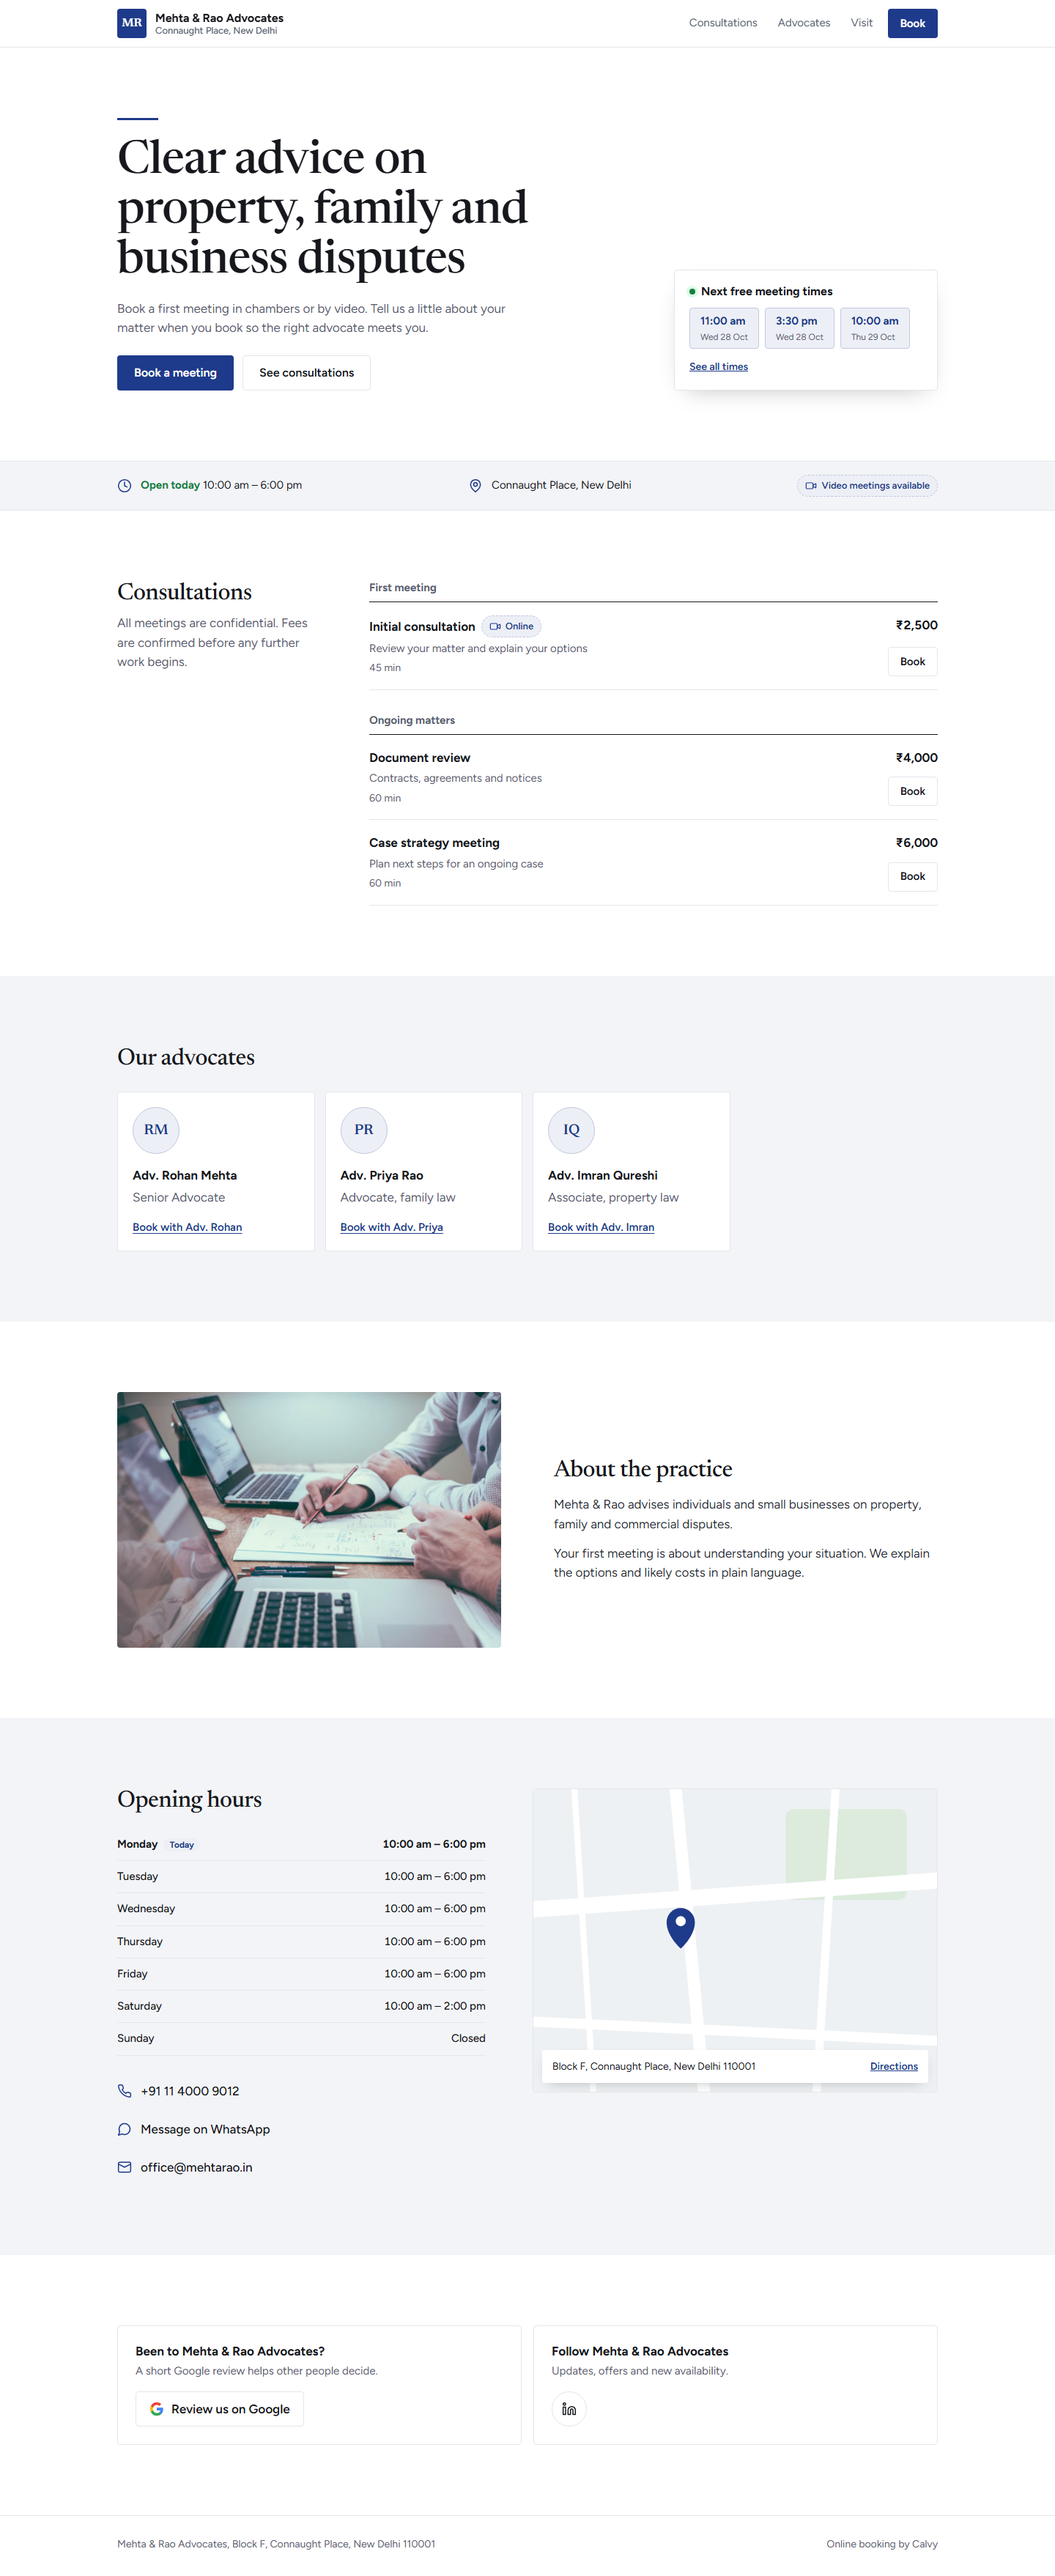
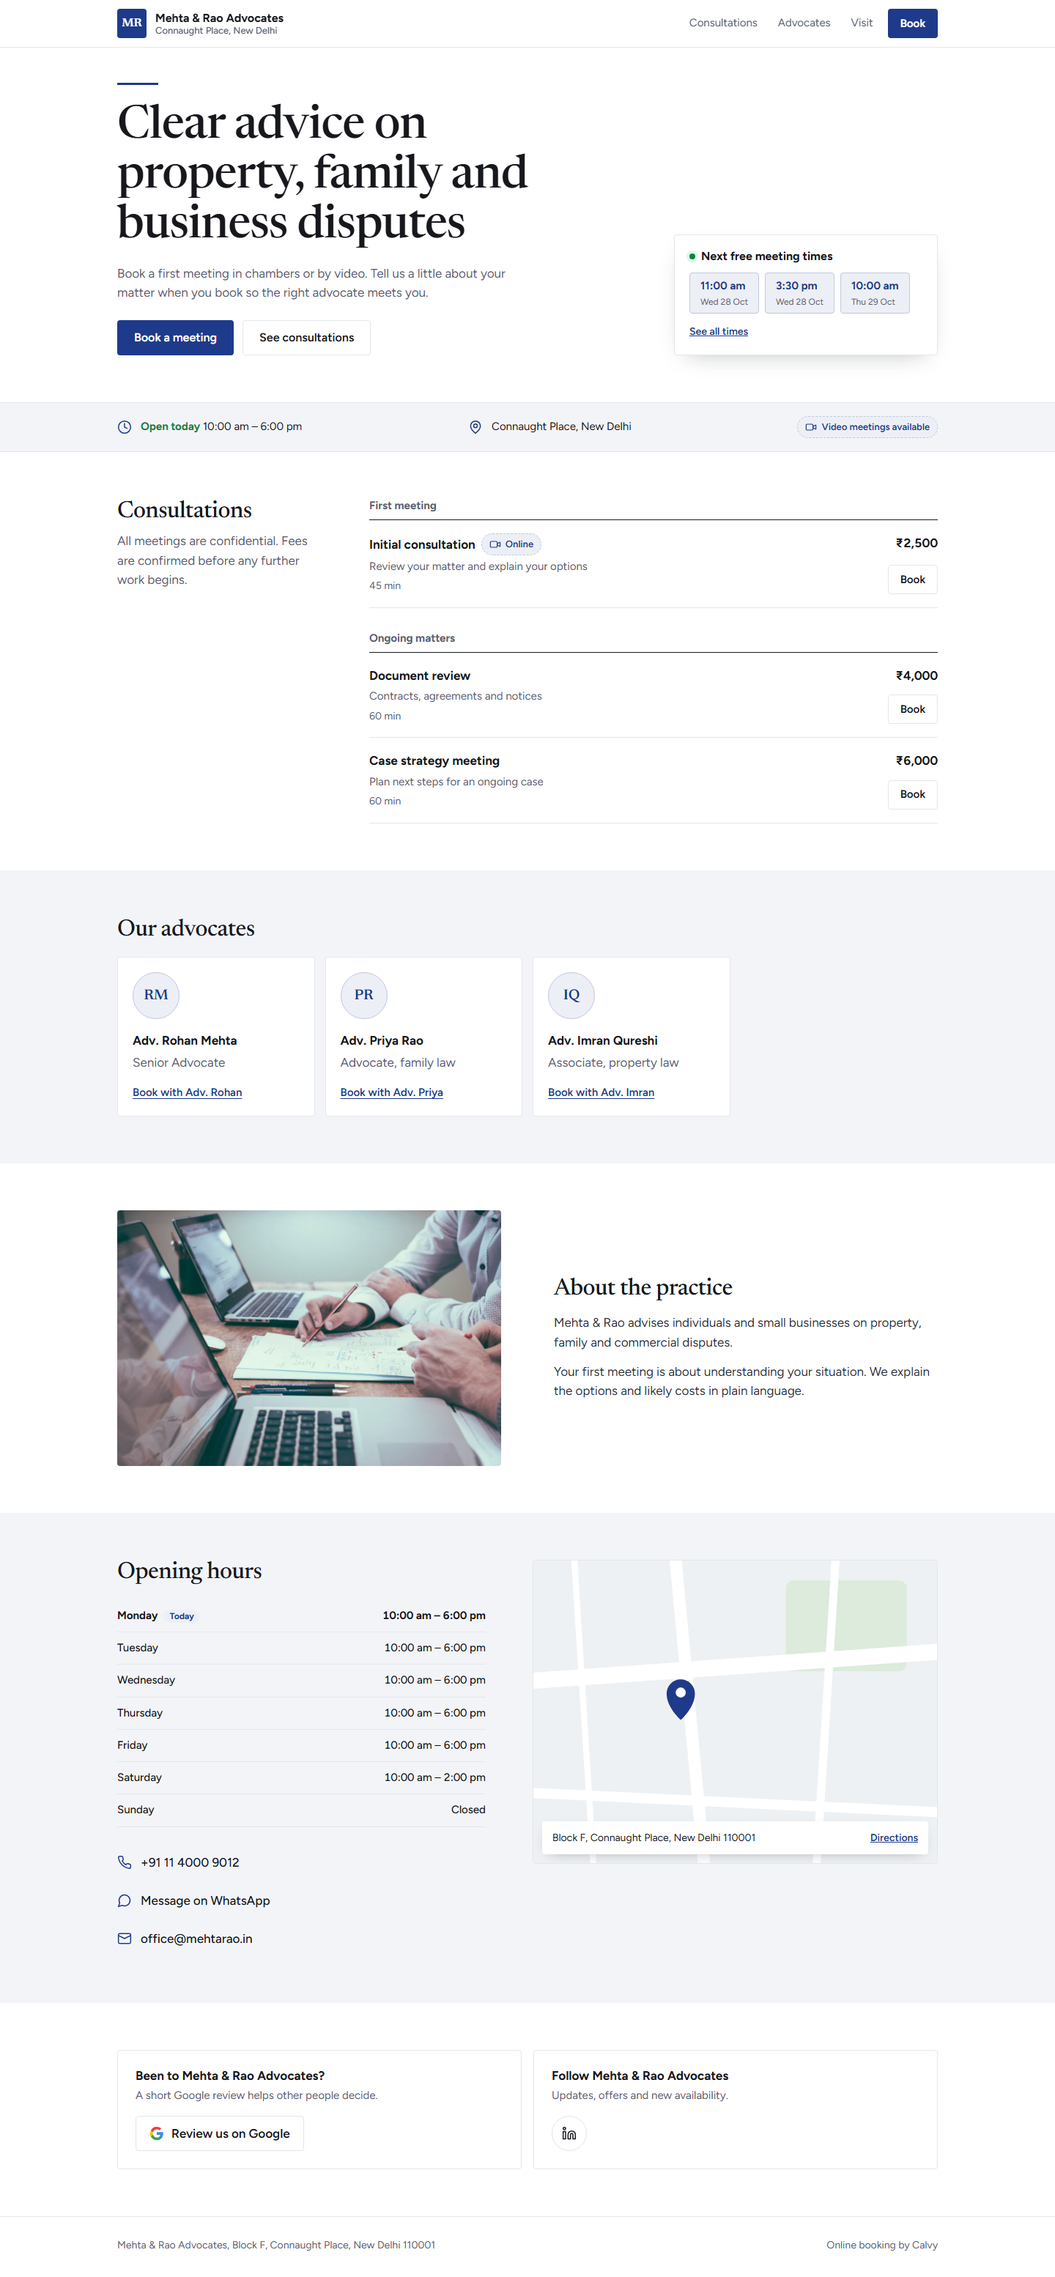
Tighten whitespace above the hero and between sections

diff --git a/docs/redesign/mockups/shared.css b/docs/redesign/mockups/shared.css
@@ -30,10 +30,10 @@
   --fs-h2: 1.5625rem;
   --fs-h1: 2.25rem;
   --fs-hero: 2.5rem;
-  --sec: 56px;
+  --sec: 40px;
 }
 @media (min-width: 900px) {
-  :root { --fs-base: 1.0625rem; --fs-h3: 1.375rem; --fs-h2: 2rem; --fs-h1: 3rem; --fs-hero: 3.75rem; --sec: 96px; }
+  :root { --fs-base: 1.0625rem; --fs-h3: 1.375rem; --fs-h2: 2rem; --fs-h1: 3rem; --fs-hero: 3.75rem; --sec: 64px; }
 }
 
 /* Pack personalities: type, corner radius, surface tint. Colour always comes from the tenant. */
@@ -97,7 +97,7 @@ p { margin: 0; }
 .avail .foot a { color: var(--brand); font-weight: 600; }
 
 /* Hero variants */
-.hero { padding: 32px 0 var(--sec); }
+.hero { padding: 20px 0 var(--sec); }
 .hero-copy p.lede { margin-top: 16px; font-size: 1.0625rem; color: var(--muted); max-width: 34em; }
 .hero h1 { font-size: var(--fs-hero); }
 .hero-ctas { display: flex; flex-wrap: wrap; gap: 12px; margin-top: 24px; }
@@ -106,7 +106,7 @@ p { margin: 0; }
 .hero-split .media img { width: 100%; aspect-ratio: 4/3; object-fit: cover; border-radius: var(--radius); }
 .hero-split .avail { margin-top: -48px; position: relative; margin-inline: 12px; }
 @media (min-width: 900px) {
-  .hero { padding-top: 64px; }
+  .hero { padding-top: 40px; }
   .hero-split .grid { grid-template-columns: 1.05fr .95fr; align-items: center; gap: 56px; }
   .hero-split .media img { aspect-ratio: 4/5; max-height: 620px; }
   .hero-split .avail { position: absolute; left: -48px; bottom: 32px; margin: 0; width: 340px; }
@@ -115,14 +115,14 @@ p { margin: 0; }
 .hero-full .bg { position: absolute; inset: 0; }
 .hero-full .bg img { width: 100%; height: 100%; object-fit: cover; }
 .hero-full .bg::after { content: ""; position: absolute; inset: 0; background: linear-gradient(180deg, rgba(10,12,16,.25) 0%, rgba(10,12,16,.55) 45%, rgba(10,12,16,.88) 100%); }
-.hero-full .wrap { position: relative; padding-top: 160px; padding-bottom: 32px; display: grid; gap: 28px; }
+.hero-full .wrap { position: relative; padding-top: 112px; padding-bottom: 24px; display: grid; gap: 28px; }
 .hero-full .lede { color: rgba(255,255,255,.86) !important; }
 .hero-full .btn-ghost { color: #fff; border-color: rgba(255,255,255,.55); }
-@media (min-width: 900px) { .hero-full .wrap { min-height: 640px; padding-top: 0; padding-bottom: 64px; grid-template-columns: 1fr 360px; align-items: end; gap: 64px; } }
+@media (min-width: 900px) { .hero-full .wrap { min-height: 560px; padding-top: 0; padding-bottom: 48px; grid-template-columns: 1fr 360px; align-items: end; gap: 64px; } }
 .hero-text .grid { display: grid; gap: 32px; }
 .hero-text h1 { font-size: calc(var(--fs-hero) * 1.05); max-width: 14em; }
 .hero-text .rule { height: 3px; width: 56px; background: var(--brand); margin-bottom: 24px; }
-@media (min-width: 900px) { .hero-text .grid { grid-template-columns: 1fr 360px; align-items: end; gap: 72px; } .hero-text { padding-top: 96px; } }
+@media (min-width: 900px) { .hero-text .grid { grid-template-columns: 1fr 360px; align-items: end; gap: 72px; } .hero-text { padding-top: 48px; } }
 
 /* Quick facts strip */
 .facts { border-block: 1px solid var(--line); background: var(--surface); }
@@ -138,7 +138,7 @@ p { margin: 0; }
 /* Sections */
 .section { padding: var(--sec) 0; }
 .section.tint { background: var(--surface); }
-.sec-head { margin-bottom: 28px; max-width: 40em; }
+.sec-head { margin-bottom: 20px; max-width: 40em; }
 .sec-head p { margin-top: 10px; color: var(--muted); }
 
 /* Services: a price list, not a card grid */

diff --git a/docs/redesign/design-direction.md b/docs/redesign/design-direction.md
@@ -18,7 +18,7 @@ Scope: tenant site `{slug}` and booking page `/b/{slug}`. Mobile-first at 375px,
 ## Tokens
 - **Type scale:** 1.25 ratio on mobile (14 / 16 / 20 / 25 / 36, hero 40), 1.333 from 900px (14 / 17 / 22 / 32 / 48, hero 60). Body is always Figtree 400-700, line-height 1.55, max ~70 characters per line.
 - **Fonts:** loaded with `next/font/google`, `subsets: ["latin"]`, `display: "swap"`, only the weights used. Each tenant page loads Figtree plus **its own pack's** display font, never the other five (the mockups' Google links stand in for this).
-- **Spacing:** 4px base (4, 8, 12, 16, 20, 24, 32, 48, 56, 96). Section padding 56px mobile / 96px desktop. Gutter 20px, container 1160px.
+- **Spacing:** 4px base (4, 8, 12, 16, 20, 24, 32, 40, 48, 64). Section padding 40px mobile / 64px desktop; hero top padding 20px / 40px (tight under the header). Gutter 20px, container 1160px.
 - **Neutrals:** ink `#16181d`, muted `#586070` (6.3:1 on white), line `#e3e6eb`, page white, per-pack surface tint.
 - **Touch targets:** every button, chip, slot and contact row is ≥ 48px tall.
 
